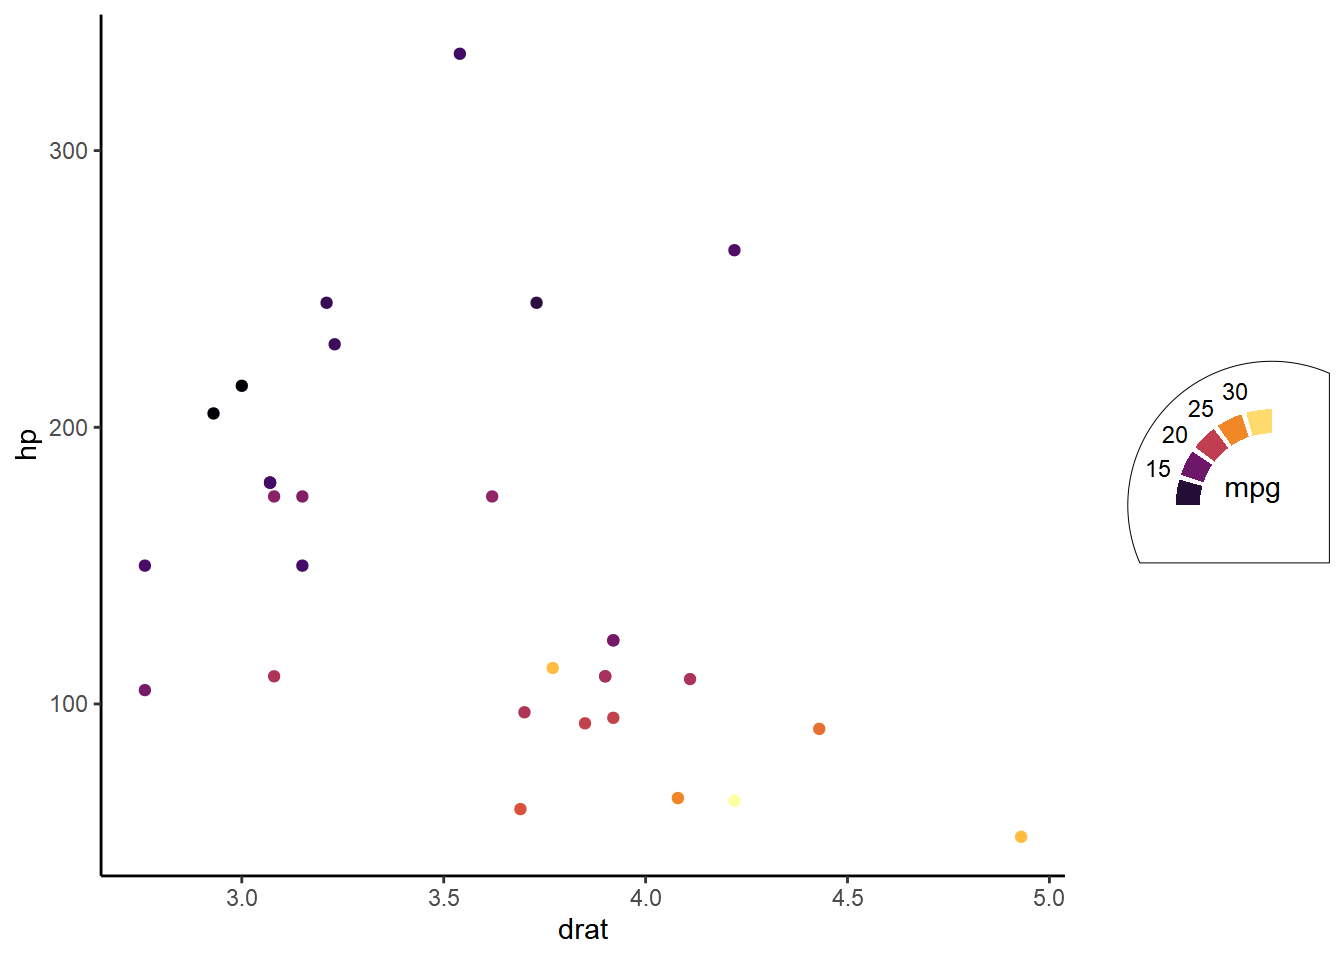
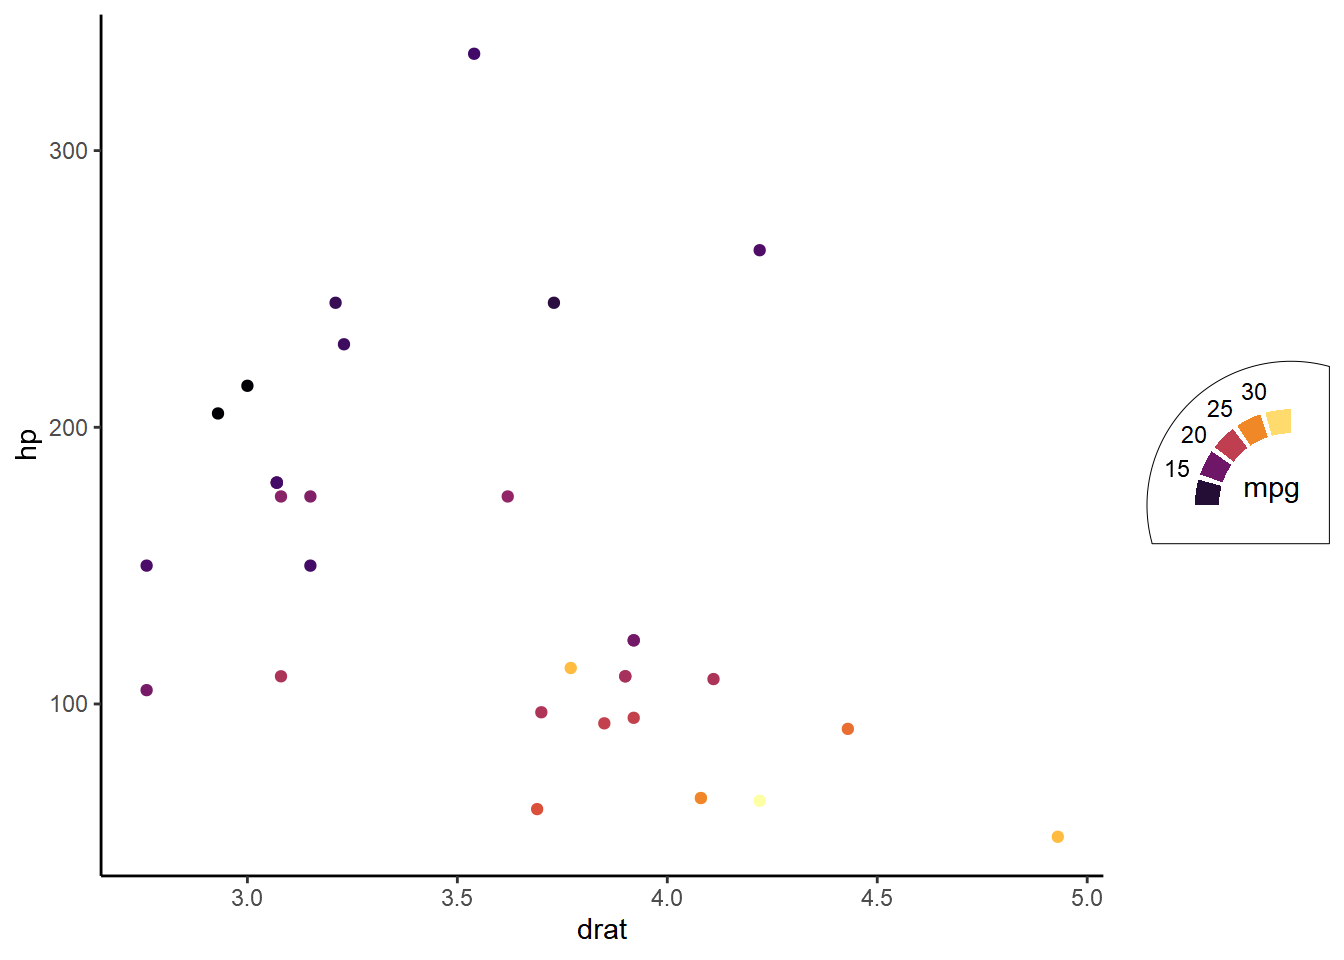
minor readme edits

diff --git a/README.md b/README.md
@@ -173,7 +173,7 @@ p +
     guide = guide_colormeter(
       arc_range = c(-pi/2, 0),
       title_position = c(-.2, .2), # moves title left and up from center
-      legend_padding = grid::unit(1.5, "lines") # pads relative to legend label
+      legend_padding = grid::unit(1, "lines") # pads relative to legend label
     )
   )
 ```
@@ -369,5 +369,5 @@ p +
 ## Acknowledgments
 
 -   Thomas Lin Pedersen for
-    [`{ggtrace}`](https://github.com/thomasp85/ggforce), whose several
+    [`{ggforce}`](https://github.com/thomasp85/ggforce), whose several
     unexported functions are used in this package.
